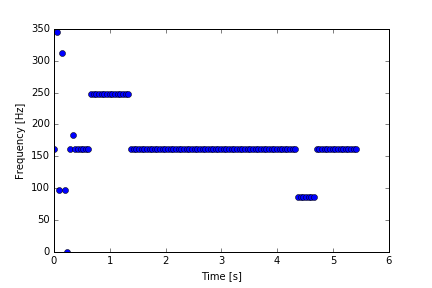
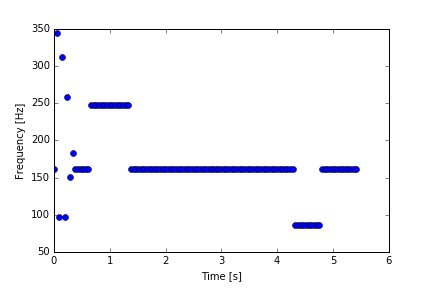
T

diff --git a/Forsøg/AFLEVERINGS MAPPE/Final_Script.py b/Forsøg/AFLEVERINGS MAPPE/Final_Script.py
@@ -20,18 +20,17 @@ import scipy.io.wavfile as siw
 # Variable og data import 
 #==============================================================================
 """ Data import """
-# Enkelt tone
-freq , data  = siw.read('Lydfiler/enkelt_tone/forsoeg_enkelt_dyb.wav')   # Data signal
-freq2, noise = siw.read('Lydfiler/stoej/klap_takt_2.wav')                # Noise signal
-
+# Single tone with clap
+#freq , data  = siw.read('Lydfiler/enkelt_tone/forsoeg_enkelt_dyb.wav')   # Data signal
+#freq2, noise = siw.read('Lydfiler/stoej/klap_takt_2.wav')                # Noise signal
 
 # TEST 1 
 #freq , data  = siw.read('Lydfiler/skala/forsoeg_skala_hurtig.wav')     # Data signal
 #freq2, noise = siw.read('Lydfiler/stoej/klap_takt_2.wav')              # Noise signal
 
 # TEST 2 
-#freq , data  = siw.read('Lydfiler/melodi/alene/forsoeg_lillepeteredderkop_langsom.wav')     # Data signal
-#freq2, noise = siw.read('Lydfiler/stoej/klap_takt_2.wav')                                   # Noise signal
+freq , data  = siw.read('Lydfiler/melodi/alene/forsoeg_lillepeteredderkop_langsom.wav')     # Data signal
+freq2, noise = siw.read('Lydfiler/stoej/klap_takt_2.wav')                                   # Noise signal
 
 # TEST 3                                  
 #freq , data  = siw.read('Lydfiler/akkorder/forsoeg_akkord_dyb2.wav')   # Data signal
@@ -124,41 +123,41 @@ print('Data filtreret 6/9')
 # Plt plots af alt det intresante og data gemmes
 #==============================================================================
 """ Impulse respose of filter """
-plt.plot(h[:sampels/2])
-plt.xlabel('Sampels [n]')
-plt.ylabel('Amplitude')
-plt.axis([0,M+100,-0.015,0.046])
-plt.savefig("figures/filter_test/impulse.png")
-plt.show()
+#plt.plot(h[:sampels/2])
+#plt.xlabel('Sampels [n]')
+#plt.ylabel('Amplitude')
+#plt.axis([0,M+100,-0.015,0.046])
+#plt.savefig("figures/filter_test/impulse.png")
+#plt.show()
 
 
 """ Frequency respose of filter """
-plt.plot(freq_axis,np.abs(H)[:sampels/2],'r')
-plt.xlabel('Frequency [Hz]')
-plt.ylabel('Amplitude')
-plt.axis([0,2500,0,1.1])
-plt.savefig("figures/filter_test/freq_response1.png")
-plt.show()
-#close up
-f, axarr = plt.subplots(2, sharex=True)
-
-axarr[0].plot(freq_axis[:plotlength], np.abs(H)[:plotlength],'r')
-axarr[0].axis([20,130,0.9,1.1])
-axarr[0].set_ylabel('Amplitude')
-axarr[0].axvline((70-delta_2), color='green') # Nedre transitionsgrænse
-axarr[0].axvline((70+delta_2), color='green') # Øvre transitionsgrænse
-axarr[0].axhline((1+delta_1), color='green') # Nedre knækfrekvens
-axarr[0].axhline((1-delta_1), color='green') # Nedre knækfrekvens 
- 
-plt.plot(freq_axis[:plotlength],np.abs(H)[:plotlength],'r')  
-plt.xlabel('Frequency [Hz]')
-plt.ylabel('Amplitude')
-plt.axvline((70-delta_2), color='green') # Nedre transitionsgrænse
-plt.axvline((70+delta_2), color='green') # Øvre transitionsgrænse
-plt.axhline((0+delta_1), color='green') # Nedre knækfrekvens
-plt.axis([20,130,0,0.2])
-plt.savefig("figures/filter_test/freq_response2.png")
-plt.show()
+#plt.plot(freq_axis,np.abs(H)[:sampels/2],'r')
+#plt.xlabel('Frequency [Hz]')
+#plt.ylabel('Amplitude')
+#plt.axis([0,2500,0,1.1])
+#plt.savefig("figures/filter_test/freq_response1.png")
+#plt.show()
+##close up
+#f, axarr = plt.subplots(2, sharex=True)
+#
+#axarr[0].plot(freq_axis[:plotlength], np.abs(H)[:plotlength],'r')
+#axarr[0].axis([20,130,0.9,1.1])
+#axarr[0].set_ylabel('Amplitude')
+#axarr[0].axvline((70-delta_2), color='green') # Nedre transitionsgrænse
+#axarr[0].axvline((70+delta_2), color='green') # Øvre transitionsgrænse
+#axarr[0].axhline((1+delta_1), color='green') # Nedre knækfrekvens
+#axarr[0].axhline((1-delta_1), color='green') # Nedre knækfrekvens 
+# 
+#plt.plot(freq_axis[:plotlength],np.abs(H)[:plotlength],'r')  
+#plt.xlabel('Frequency [Hz]')
+#plt.ylabel('Amplitude')
+#plt.axvline((70-delta_2), color='green') # Nedre transitionsgrænse
+#plt.axvline((70+delta_2), color='green') # Øvre transitionsgrænse
+#plt.axhline((0+delta_1), color='green') # Nedre knækfrekvens
+#plt.axis([20,130,0,0.2])
+#plt.savefig("figures/filter_test/freq_response2.png")
+#plt.show()
 
 """ dB representation of frequency response of filter """
 #plt.plot(freq_axis,Hdb[:sampels/2])
@@ -187,20 +186,20 @@ plt.show()
 #plt.show()
 
 """ Pure signal with noise i frekvency domain"""
-plt.plot(freq_axis[:plotlength],np.abs(SIGNAL)[:plotlength])          
-plt.xlabel('Frequency [Hz]')
-plt.ylabel('Amplitude')
-plt.savefig("figures/filter_test/SIGNAL.png")
+#plt.plot(freq_axis[:plotlength],np.abs(SIGNAL)[:plotlength])          
+#plt.xlabel('Frequency [Hz]')
+#plt.ylabel('Amplitude')
+##plt.savefig("figures/filter_test/SIGNAL.png")
 #plt.savefig("figures/integrationstest/FSIGNAL.png")
-plt.show()
+#plt.show()
 
 """ Filtered signal in frequency domain """
-plt.plot(freq_axis[:plotlength],np.abs(SIGNAL_FILT[:plotlength]))   
-plt.xlabel('Frequency [Hz]')
-plt.ylabel('Amplitude')
-plt.savefig("figures/filter_test/f_SIGNAL.png")
+#plt.plot(freq_axis[:plotlength],np.abs(SIGNAL_FILT[:plotlength]))   
+#plt.xlabel('Frequency [Hz]')
+#plt.ylabel('Amplitude')
+##plt.savefig("figures/filter_test/f_SIGNAL.png")
 #plt.savefig("figures/integrationstest/f_FSIGNAL.png")
-plt.show()
+#plt.show()
 
 """ Close-up all data in time domain  """
 ##plt.plot(tid,signal, 'r-', label = "signal")
@@ -230,29 +229,30 @@ X = db(np.abs(X).T)                                         # Calculated to dB
 x = np.linspace(0,tid[-1],np.shape(X)[1])       
 y = np.linspace(0,freq_axis[-1],np.shape(X)[0]) 
 
-#spec = plt.pcolormesh(x,y[freq_inter1:freq_inter2],X[freq_inter1:freq_inter2],cmap='jet')
-#cb   = plt.colorbar(spec)
-#cb.set_label(label = 'Amplitude [dB]', fontsize=fontsize)
-#plt.xlabel('Time [s]', fontsize = fontsize)
-#plt.ylabel('Frequency [Hz]', fontsize = fontsize)
-#plt.axis([0,5,0,2000])
-##plt.savefig("figures/skala.png")
-##plt.savefig("figures/integrationstest/spectrogram.png")
-##plt.savefig("figures/eks_ch2.png")
-#plt.show()
+spec = plt.pcolormesh(x,y[freq_inter1:freq_inter2],X[freq_inter1:freq_inter2],cmap='jet')
+cb   = plt.colorbar(spec)
+cb.set_label(label = 'Amplitude [dB]', fontsize=fontsize)
+plt.xlabel('Time [s]', fontsize = fontsize)
+plt.ylabel('Frequency [Hz]', fontsize = fontsize)
+plt.axis([0,45,0,2000])
+#plt.savefig("figures/skala.png")
+#plt.savefig("figures/integrationstest/spectrogram.png")
+plt.savefig("figures/systemtest/final_spec1.png")
+plt.show()
 
 #==============================================================================
 # Peak Dectection
 #==============================================================================
 
-max_freq_t = peak_dec(X,1,y)
+max_freq_t = peak_dec(X,0.75,y)
 
 """ plot peak dection """
 plt.plot(x,max_freq_t,'o')
 plt.xlabel('Time [s]')
 plt.ylabel('Frequency [Hz]')
+#plt.savefig("figures/peak/peak_lim4.png")
 #plt.savefig("figures/integrationstest/peak_dec.png")
-#plt.savefig("figures/systemtest/final_peak3.png")
+plt.savefig("figures/systemtest/final_peak1.png")
     
 #==============================================================================
 # SNR

diff --git a/Rapport/sections/mainmatter/chapter_10/Peak_detection_algorithm.tex b/Rapport/sections/mainmatter/chapter_10/Peak_detection_algorithm.tex
@@ -41,7 +41,7 @@ An algorithm for locating the frequency with the largest amplitude is described 
 
 %An argument coud be made for looking at the 3+ higest frequencies in the signal.
 \subsection{Test of peak detection algorithm}
-The algorithm is tested as stated by the specifications in section \ref{sec:testspec} by feeding an STFT of a noise filled audio file containing an $E_2$ tone being played on a guitar.
+The algorithm is tested as stated by the specifications in section \ref{sec:testspec} by feeding an STFT of an audio file containing an $E_2$ tone being played on a guitar.
 The expected result of this test is either the fundamental frequency of $82.41$ Hz or an harmonic of this as explained in chapter \ref{ch2}. The first two harmonics of $E_2$ are $82.41 \cdot 2 = 164.82$ Hz and $82.41 \cdot 3 = 247.23$ Hz.
 
 \begin{figure}[H]
@@ -50,32 +50,31 @@ The expected result of this test is either the fundamental frequency of $82.41$ 
 \centering
 \includegraphics[width=\textwidth]{figures/peak_detection/peak_lim1.png}
 \caption{}
-\label{fig:freq_-3dB_Amp_pass}
+\label{fig:freq_45dB_Amp_pass}
 
 \includegraphics[width=\textwidth]{figures/peak_detection/peak_lim2.png}
 \caption{}
-\label{fig:freq_10dB_Amp_pass}
+\label{fig:freq_65dB_Amp_pass}
 
 \end{subfigure}
 \begin{subfigure}{0.49\textwidth}
 \centering
 \includegraphics[width=\textwidth]{figures/peak_detection/peak_lim3.png}
 \caption{}
-\label{fig:freq_15dB_Amp_pass}
+\label{fig:freq_75dB_Amp_pass}
 
 \includegraphics[width=\textwidth]{figures/peak_detection/peak_lim4.png}
 \caption{}
-\label{fig:freq_25dB_Amp_pass}
+\label{fig:freq_80dB_Amp_pass}
 
 \end{subfigure}
-\caption{Peak detection of spectrogram of $E_2$ with minimun amplitude representation of \textbf{(a)} $-3$ dB, \textbf{(b)} 15 dB, \textbf{(c)} 10 dB and \textbf{(d)} 25 dB.}
+\caption{Peak detection of spectrogram of $E_2$ with minimun amplitude representation of \textbf{(a)} 45 dB, \textbf{(b)} 65 dB, \textbf{(c)} 75 dB and \textbf{(d)} 80 dB.}
 \label{fig:valdation_peak_detection}
 \end{figure}
-\trine{Vi skal bestemme os for et dB limit}
-Figure \ref{fig:valdation_peak_detection} shows the effect of different cut-off limits. The most represented frequencies in figure \ref{fig:freq_-3dB_Amp_pass} are $158.76$ Hz followed by $246.96$ Hz and $88.2$ Hz. 
+Figure \ref{fig:valdation_peak_detection} shows the effect of different cut-off limits. The most represented frequencies in figure \ref{fig:freq_45dB_Amp_pass} are $158.76$ Hz followed by $246.96$ Hz and $88.2$ Hz. 
 Knowing that the tone being played is the $E_2$ with the previously mentioned fundamental frequency and harmonics, an error margin of around $6$ Hz between the expected output and the actual output can be seen. This can be due to either the guitar not playing a clean $E_2$ or the previously mentioned lack of resolution in frequency.
 \\
-With a low amplitude limit as shown in figure \ref{fig:freq_-3dB_Amp_pass} none of the maximum amplitudes are removed. This in turn makes any noise in the system able to be represented as a peak even though nothing is being played by the guitar.
-Figure \ref{fig:freq_25dB_Amp_pass} is more akin to an expected result as it does not show any spikes but the figure also only shows the harmonics of the $E_2$. Therefore, if the limit is too large, the tone being played is cut short when the amplitude of the tone gradually descends.
+With a low amplitude limit as shown in figure \ref{fig:freq_45dB_Amp_pass} none of the maximum amplitudes are removed. This in turn makes any noise in the system able to be represented as a peak even though nothing is being played by the guitar, seen by the first 0.5 seconds.
+Figure \ref{fig:freq_80dB_Amp_pass} is more akin to an expected result as it does not show any spikes but the figure also only shows the harmonics of the $E_2$. Therefore, if the limit is too large, the tone being played is cut short when the amplitude of the tone gradually descends.
 \\
 To summarize, a compromise between letting noise pass the peak detection and cutting the tone short has to be made in order to make sure that the correct frequencies are located and the length of the tone is maintained. From this the implementation of the peak detection is found to work as intended.

diff --git a/Rapport/sections/mainmatter/chapter_10/systemtest.tex b/Rapport/sections/mainmatter/chapter_10/systemtest.tex
@@ -42,7 +42,7 @@ It is clear that the lowest frequencies lie closer as expected, and hence it is 
 \label{fig:final_3}
 \end{figure}  
 
-Figure \ref{fig:final_3} accounts for the output of test 2. It is seen compared to the result of the scale that the significant frequencies are not as clear due to several incongruous detected frequencies. However, by ignoring the incongruous peaks in figure \ref{fig:final_peak3} it is possible to sense the pattern of the frequencies. The first three different frequencies detected are approximately 258 Hz, 301 Hz and 322 Hz, which corresponds within a range of $\pm 10$ Hz to the first line of the melody being $C \ C \ C \ D \ E \ E \ E$, and it also visually corresponds with the time axis. More generally, the melody is recognisable by a person knowing the melody. \\
+Figure \ref{fig:final_3} accounts for the output of test 2. It is seen compared to the result of the scale that the significant frequencies are not as clear due to several incongruous detected frequencies. However, by ignoring the incongruous peaks in figure \ref{fig:final_peak3} it is possible to sense the pattern of the frequencies. The first three different frequencies detected are approximately 258 Hz, 290 Hz and 333 Hz, which corresponds within a range of $\pm 5$ Hz to the first line of the melody being $C \ C \ C \ D \ E \ E \ E$, and it also visually corresponds with the time axis. More generally, the melody is recognisable by a person knowing the melody. \\
 By this one can conclude that the melody is recognisable based on the result but a selective algorithm is required to determine the specific tones.                  
 
 \paragraph{Test 3} $E_2$ chord with clapping hands.
@@ -72,7 +72,7 @@ From this the implementation of each unit and the integration of these into one 
 \\
 Within the limit of the presented theory the quality of the output is sought optimised through the decisions made primarily upon filter type and the resolution of time and frequency, respectively, in the spectrogram.
 The quality of the output is evaluated upon the possibility of recognising the correct significant frequency at a specific time. \\
-The results of the final tests indicate that it is possible to detect the significant frequency in the case of a single tone within a range of $\pm 10$ Hz. This accuracy is not sufficient for unique recognition of low tones. The peak detection can be improved with increased spectral resolution of the spectrogram which however lowers the temporal resolution. As this project does not include an assessment of the temporal resolution this trade-off can not be evaluated besides visual enterpretation of the spectrograms.\\        
+The results of the final tests indicate that it is possible to detect the significant frequency in the case of a single tone within a range of $\pm 5$ Hz. This accuracy is not sufficient for unique recognition of low tones. The peak detection can be improved with increased spectral resolution of the spectrogram which however lowers the temporal resolution. As this project does not include an assessment of the temporal resolution this trade-off can not be evaluated besides visual enterpretation of the spectrograms.\\        
 Test 1 and test 2 further indicate that when the input signal gets more complicated with respect to speed and shifts between tones it is more difficult to detect the right tones. By test 3 it is concluded that the application is not capable of determining a specific chord. \\   
 \\
 Therefore, the application is found to fulfil the primary purpose specified in section \ref{sec:final_test3} but with limited accuracy.\\

diff --git a/Rapport/sections/mainmatter/chapter_8/design.tex b/Rapport/sections/mainmatter/chapter_8/design.tex
@@ -273,28 +273,29 @@ Specifications for a lowpass filter are illustrated in figure \ref{fig:kaiser_sp
 \centering
 \begin{subfigure}{0.49\textwidth}
 \centering
-\begin{tikzpicture}[scale=1]
+\begin{tikzpicture}[scale=0.75]
 \begin{axis}[
 scale=1.1,
 unit vector ratio*=1 1 1,
 axis lines = middle,
-xtick={0,2,4,7,8},
+xtick={0,1.5,3.5,5},
 xticklabels={$0$,$\omega_p$,$\omega_s$,$\pi$,$[rad/s]$},
 ytick={0.5,3,3.7},
 yticklabels={$\delta$,$1-\delta$,$1+\delta$},
 xmin=0,
-xmax=8,
+xmax=6,
 ymin=0,
-ymax=4.6]
-\node at (axis cs:1,4.3) {$|H(\omega)|$};
-\draw[line width=0.3mm, dashed](axis cs:0,3.7)--(axis cs:2,3.7);
-\draw[line width=0.3mm, dashed](axis cs:0,3)--(axis cs:2,3);
-\draw[line width=0.3mm](axis cs:2,3)--(axis cs:2,0);
-\draw[line width=0.3mm](axis cs:4,3.7)--(axis cs:4,0.5);
-\draw[line width=0.3mm, dashed](axis cs:4,0.5)--(axis cs:7,0.5);
+ymax=4.3]
+\node at (axis cs:0.65,4.1) {$|H(\omega)|$};
+\draw[line width=0.4mm, dashed](axis cs:0,3.7)--(axis cs:3.5,3.7);
+\draw[line width=0.4mm, dashed](axis cs:0,3)--(axis cs:1.5,3);
+\draw[line width=0.4mm](axis cs:1.5,3)--(axis cs:1.5,0);
+\draw[line width=0.4mm](axis cs:3.5,3.7)--(axis cs:3.5,0.5);
+\draw[line width=0.4mm, dashed](axis cs:3.5,0.5)--(axis cs:5,0.5);
 
-\node at (axis cs:3,1.5) {$\Delta\omega$};
-\addplot [->,>={}] coordinates {( 2.5,1.5)(2,1.5)};
+\node at (axis cs:2.5,1.5) {$\Delta\omega$};
+\draw [->] (axis cs: 2.1,1.5)--(axis cs:1.5,1.5);
+\draw [->] (axis cs: 2.9,1.5)--(axis cs:3.5,1.5);
 
 \end{axis}
 \end{tikzpicture}
@@ -307,10 +308,10 @@ ymax=4.6]
 \caption{}
 \label{fig:kaiser_H}
 \end{subfigure}
-\caption{\textbf{(a)} illustration of specifications of a lowpass filter $H(\omega)$. \textbf{(b)} Amplitude response of $H(\omega)$ computed by a Kaiser window with $M=46$ and $\beta \approx 3.4$.}
+\caption{\textbf{(a)} Illustration of specifications of a lowpass filter $H(\omega)$. \textbf{(b)} Amplitude response of $H(\omega)$ computed by a Kaiser window with $M=46$ and $\beta \approx 3.4$.}
 \end{figure}
 
-By this establishment of the Kaiser window method it is possible to design a FIR filter within a desired specification of $\delta$ with almost no iterations or trial and error. By adjusting the shape parameter $\beta$ it is possible to obtain a window equivalent to each of the windows defined in table \ref{tab:window} with a more narrow transition width, which could make the Kaiser window preferable \martin{Trine retter figuren med $\Delta \omega$}.
+By this establishment of the Kaiser window method it is possible to design a FIR filter within a desired specification of $\delta$ with almost no iterations or trial and error. By adjusting the shape parameter $\beta$ it is possible to obtain a window equivalent to each of the windows defined in table \ref{tab:window} with a more narrow transition width, which could make the Kaiser window preferable.
 
 \section{Comparison of IIR and FIR filters}
 This chapter concludes with a comparison of IIR and FIR filters by considering the advantages and disadvantages of the two types of filters.

diff --git a/Rapport/sections/mainmatter/chapter_10/Filterdesign.tex b/Rapport/sections/mainmatter/chapter_10/Filterdesign.tex
@@ -123,13 +123,13 @@ The implemented filter is tested according to the test specifications described 
 \centering
 \begin{subfigure}{0.49\textwidth}
 \centering
-\includegraphics[width=\textwidth]{figures/filtertest/filt_SIGNAL.png}
+\includegraphics[width=\textwidth]{figures/filtertest/SIGNAL.png}
 \caption{}
 \label{fig:SIGNAL}
 \end{subfigure}
 \begin{subfigure}{0.49\textwidth}
 \centering
-\includegraphics[width=\textwidth]{figures/filtertest/SIGNAL.png}
+\includegraphics[width=\textwidth]{figures/filtertest/f_SIGNAL.png}
 \caption{}
 \label{fig:filt_SIGNAL}
 \end{subfigure}

diff --git a/Forsøg/AFLEVERINGS MAPPE/peak_detection.py b/Forsøg/AFLEVERINGS MAPPE/peak_detection.py
@@ -6,10 +6,11 @@ Created on Wed May 17 09:32:06 2017
 """
 import numpy as np
 
-def peak_dec(X, limit, y):
+def peak_dec(X, p, y):
     X = X.T
     sortedX = np.zeros(len(X),dtype = object)
-    
+    maxamp = np.max(X)
+    limit = maxamp*p
     for i in range(len(X)):
         sortedX[i] = np.sort(X[i])
         max_freq_pos = np.zeros(len(X))
